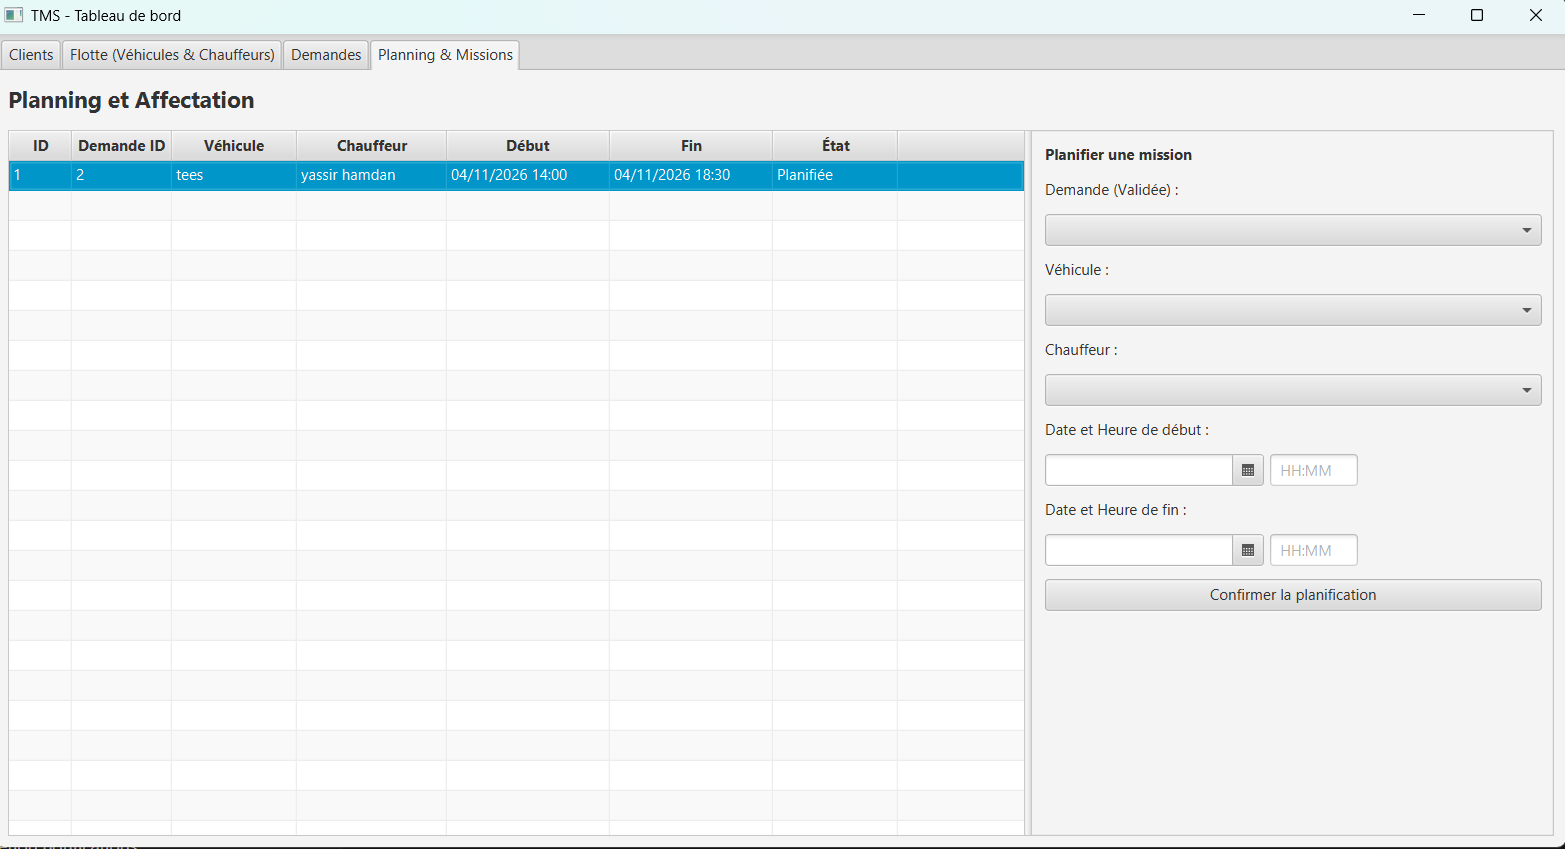
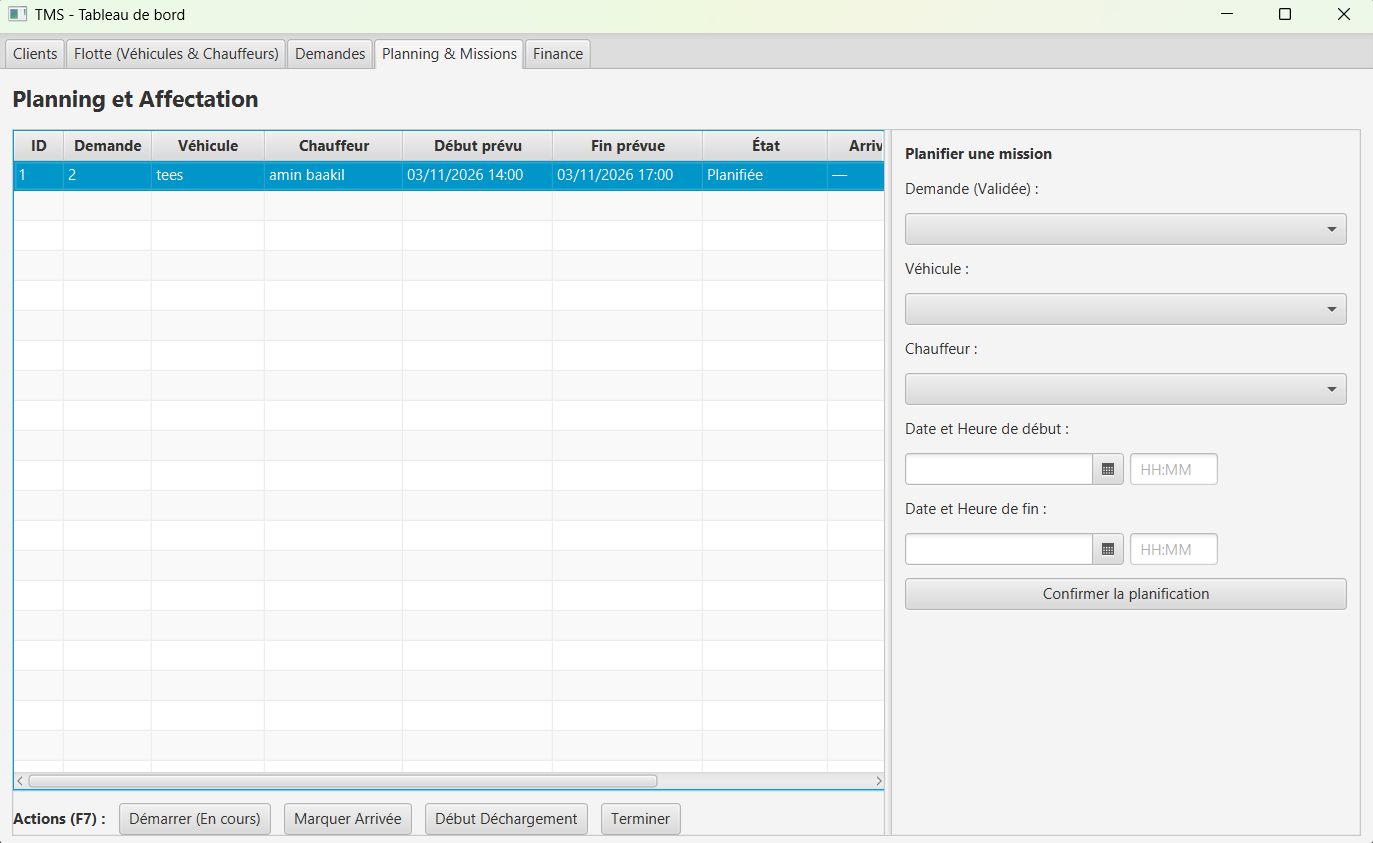
update README.md

diff --git a/README.md b/README.md
@@ -31,6 +31,14 @@ Une application simple de gestion du transport : clients, chauffeurs et véhicul
 ### Planning
 
 ![Planning](images/planning.png)
+
+### Depenses
+
+![Depenses](images/depenses.png)
+
+### Paiements
+
+![Planning](images/paiements.png)
 ---
 
 **Pas encore terminé.**
